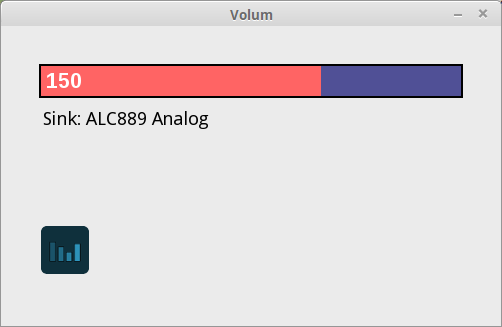
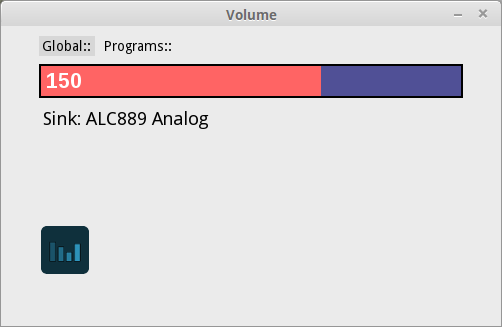
New screenshots and optimizations

Changed region(s): [[0.2092, 0.1223, 0.3287, 0.1835], [0.4482, 0.0306, 0.5677, 0.0612], [0.0598, 0.1223, 0.1793, 0.1529]]

diff --git a/Volum.py b/Volum.py
@@ -39,7 +39,7 @@ def find_volume():
         count += 1
 
 pygame.init()
-pygame.display.set_caption('Volum')
+pygame.display.set_caption('Volume')
 icon = pygame.image.load('load/volum.png')
 pygame.display.set_icon(icon)
 sink = int(find_sinks.read_settings('default_sink = '))
@@ -61,6 +61,8 @@ find_volume()
 
 white = (255,255,255)
 grey = (235,235,235)
+greyer = (225,225,225)
+greyest =(215,215,215)
 red = (255,100,100)
 dark_red = (180,25,25)
 black = (0,0,0)
@@ -68,6 +70,7 @@ dark = (35,35,35)
 blue = (80,80,150)
 dblue = (50,50,120)
 lblue = (130,130,220)
+llblue = (180,180,245)
 green = (0,255,0)
 blgr = (34,67,79)
 
@@ -91,28 +94,37 @@ def check_mouse_hover(x_list,m_pos,redraw,hover_var,custom_xlen):
     for obs in x_list:
         if obs[hover_var] == True:
             if custom_xlen == False:
-                custom_xlen = obs[2]
-            if m_pos[0] > obs[0]+custom_xlen or m_pos[0] < obs[0] or m_pos[1] < obs[1] or m_pos[1] > obs[1]+obs[3]:
+                custom_xlen2 = obs[2]
+            else:
+                custom_xlen2 = custom_xlen
+            if m_pos[0] > obs[0]+custom_xlen2 or m_pos[0] < obs[0] or m_pos[1] < obs[1] or m_pos[1] > obs[1]+obs[3]:
                 obs[hover_var] = False
                 redraw = True
     for obs in x_list:
         if obs[hover_var] == False:
             if custom_xlen == False:
-                custom_xlen = obs[2]
-            if m_pos[0] < obs[0]+custom_xlen and m_pos[0] > obs[0]:
+                custom_xlen2 = obs[2]
+            else:
+                custom_xlen2 = custom_xlen
+            if m_pos[0] < obs[0]+custom_xlen2 and m_pos[0] > obs[0]:
                 if m_pos[1] < obs[1]+obs[3] and m_pos[1] > obs[1]:
                     obs[hover_var] = True
                     redraw = True
+##    print (x_list)
     return x_list, redraw
 
 def higher():
     global volume, volume_timer, reset_timer
     volume+=5
+    if volume > 150:
+        volume = 150
     volume_timer = reset_timer
 
 def lower():
     global volume, volume_timer, reset_timer
     volume-=5
+    if volume < 0:
+        volume = 0
     volume_timer = reset_timer
 
 def sys_arg_volum(volume):
@@ -190,8 +202,9 @@ def main_loop():
     moving_inputs = int(find_sinks.read_settings('m_inputs = '))
     sink_index = int(find_sink_index(sink_list_index))
     ##Button_list: 0X, 1Y, 2xlen, 3ylen, 4color, 5color_hover, 6command, 7hover
-    button_list = [[38, 10, 56, 20, blue, lblue, 'Global::', False,14],[100, 10, 76, 20, blue, lblue, 'Programs::', False,14]]
+    button_list = [[38, 10, 56, 20, grey, llblue, 'Global::', False,14],[100, 10, 76, 20, grey, llblue, 'Programs::', False,14]]
     mouse_pos = pygame.mouse.get_pos()
+    button_list[0][4], button_list[1][4] = greyest, grey
     if reset_timer < 0:
         reset_timer = 0
     check_equalizer = os.path.exists('/usr/bin/qpaeq')
@@ -231,7 +244,7 @@ def main_loop():
                     lower()
                     redraw = True
                 if event.key == pygame.K_F2:
-                    program_loop()
+                    program_loop(button_list)
                 if event.key == pygame.K_e:
                     stop = False
                     if moving_inputs == 0:
@@ -269,10 +282,10 @@ def main_loop():
                         find_volume()
                         redraw = True
             if event.type == pygame.MOUSEBUTTONDOWN:
-                if event.button == 4 and volume<150:
+                if event.button == 4:
                     higher()
                     redraw = True
-                if event.button == 5 and volume>0:
+                if event.button == 5:
                     lower()
                     redraw = True
                 elif event.button == 1:
@@ -289,25 +302,25 @@ def main_loop():
                             if x[6] == 'Global::':
                                 print("It's here")
                             if x[6] == 'Programs::':
-                                program_loop()
+                                program_loop(button_list)
 
-        button_list, redraw = check_mouse_hover(button_list,mouse_pos,redraw,7,False)
-        if mouse_pos[0] < scx/12.5+64 and mouse_pos[0] > scx/12.5:
-            if mouse_pos[1] < scy/1.5+64 and mouse_pos[1] > scy/1.5:
-                eq_draw = eq_pic_hov
-                redraw = True
-                eq_hov = True
+            button_list, redraw = check_mouse_hover(button_list,mouse_pos,redraw,7,False)
+            if mouse_pos[0] < scx/12.5+64 and mouse_pos[0] > scx/12.5:
+                if mouse_pos[1] < scy/1.5+64 and mouse_pos[1] > scy/1.5:
+                    eq_draw = eq_pic_hov
+                    redraw = True
+                    eq_hov = True
 ##        if mouse_pos[0] < scx/4.16+64 and mouse_pos[0] > scx/4.16:
 ##            if mouse_pos[1] < scy/1.5+64 and mouse_pos[1] > scy/1.5:
 ##                options_draw = options_pic_hov
 ##                redraw = True
 ##                options_hov = True                
 
-        if eq_hov == True:
-            if mouse_pos[0] > scx/12.5+48 or mouse_pos[0] < scx/12.5 or mouse_pos[1] > scy/1.5+48 or mouse_pos[1] < scy/1.5:
-                eq_draw = eq_pic
-                redraw = True
-                eq_hov = False
+            if eq_hov == True:
+                if mouse_pos[0] > scx/12.5+48 or mouse_pos[0] < scx/12.5 or mouse_pos[1] > scy/1.5+48 or mouse_pos[1] < scy/1.5:
+                    eq_draw = eq_pic
+                    redraw = True
+                    eq_hov = False
 ##        if options_hov == True:
 ##            if mouse_pos[0] > scx/4.16+48 or mouse_pos[0] < scx/4.16 or mouse_pos[1] > scy/1.5+48 or mouse_pos[1] < scy/1.5:
 ##                options_draw = options_pic
@@ -337,7 +350,7 @@ def main_loop():
                     draw_bar(x[0],x[1],x[2],x[3],x[5])
                 else:
                     draw_bar(x[0],x[1],x[2],x[3],x[4])
-                draw_text(x[6],'',x[0]+3,x[1]+2,x[8],white,2)
+                draw_text(x[6],'',x[0]+3,x[1]+2,x[8],black,2)
             
             if check_equalizer == True:
                 draw_picture(scx/12.5,scy/1.5,eq_draw)
@@ -348,14 +361,15 @@ def main_loop():
             
         clock.tick(60)
 
-def program_loop():
+def program_loop(button_list):
     global volume_timer, reset_timer, sink, sink_list, sink_list_index, sink_count
     input_list, text_list, bar_list,bar_list2, bar_list3 = reset_inputs_list()
+    button_list[0][4], button_list[1][4] = grey, greyest
     ##Bar lists: 0X, 1Y, 2Width, 3Height, 4Color, 5Hover)
-    ##Button_list: 0X, 1Y, 2xlen, 3ylen, 4color, 5color_hover, 6command, 7hover
-    button_list = [[38, 10, 56, 20, blue, lblue, 'Global::', False,14],[100, 10, 76, 20, blue, lblue, 'Programs::', False,14]]
     bar2 = 100*1.5
     bar3 = 22
+    mouse_pos = [0,0]
+    moved_pixels = 0
     redraw = True
     while True:
         for event in pygame.event.get():
@@ -394,6 +408,7 @@ def program_loop():
                             bar[1] += 10
                         for text in text_list:
                             text[3] += 10
+                        moved_pixels -= 1
                     redraw = True
                 if event.button == 5:
                     count, move = 0, 1
@@ -407,7 +422,7 @@ def program_loop():
                                 bar[2] = input_list[count][2]*1.5
                                 set_input_volume(input_list[count][0],input_list[count][2])
                         count += 1
-                    if move == 1:
+                    if move == 1 and moved_pixels < 0:
                         for bar in bar_list:
                             bar[1] -= 10
                         for bar in bar_list2:
@@ -416,6 +431,7 @@ def program_loop():
                             bar[1] -= 10
                         for text in text_list:
                             text[3] -= 10
+                        moved_pixels += 1
                     redraw = True
                 elif event.button == 1:
                     for x in button_list:
@@ -458,12 +474,13 @@ def program_loop():
                     draw_bar(bar[0],bar[1],bar[2],bar[3],red)
             for text in text_list:
                 draw_text(text[0],text[1],text[2],text[3],text[4],text[5],text[6])
+            draw_bar(0,0,scx,scy/8,grey)
             for x in button_list:
                 if x[7] == True:
                     draw_bar(x[0],x[1],x[2],x[3],x[5])
                 else:
                     draw_bar(x[0],x[1],x[2],x[3],x[4])
-                draw_text(x[6],'',x[0]+3,x[1]+2,x[8],white,2)
+                draw_text(x[6],'',x[0]+3,x[1]+2,x[8],black,2)
             redraw = False
             pygame.display.update()
             
